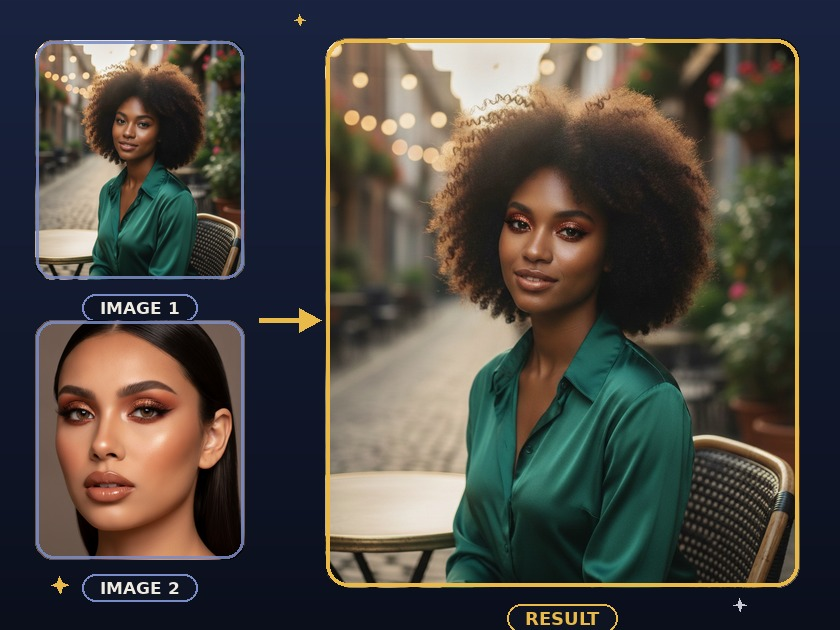
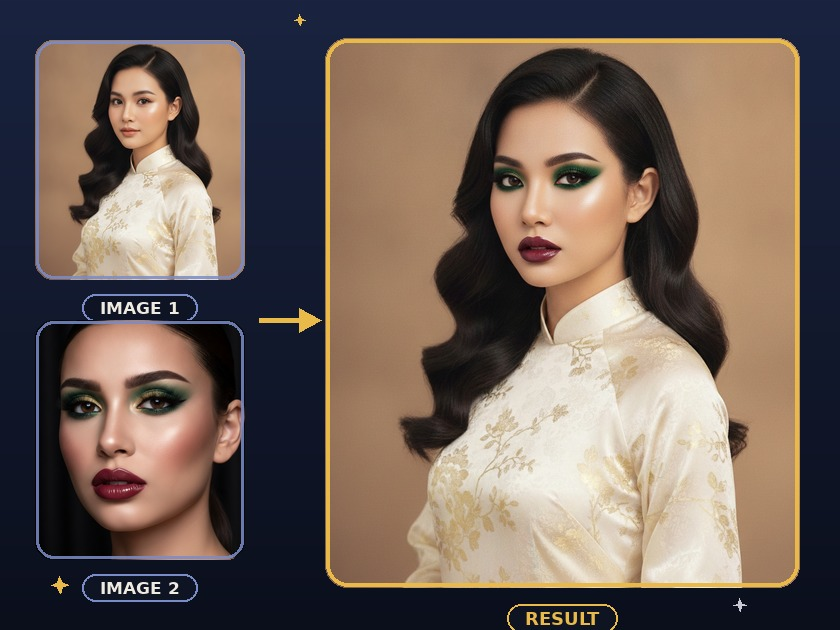
v4.20.16-17: refresh pr-roMkCopy with a more beautiful Vietnamese model (#124)
* v4.7.2: fix stale-version banner falsely firing on any version mismatch

The update-available toast compared version.json to APP_VER with !== instead
of a real newer-than check, so a stale/CDN-cached version.json serving an
OLDER value (observed live: a "3.8.0" banner while already on v4.7.1) wrongly
told users a new build had shipped. Added a semver-style verNewer() compare
so the toast only fires when the fetched version is genuinely newer.

Discovered from a user screenshot of the live Setup page while confirming
Gemini/RunningHub/OpenAI key verification all work end-to-end.

* v4.8.0: rebuild RunningHub Enterprise on the real Standard Model API

The RunningHub integration was built against a guessed API shape
(webappId + nodeInfoList, apiKey in the body) that turned out not to match
what Enterprise-Shared keys actually use. Working with a real key against
RunningHub's live docs and its published model-registry.public.json, the
actual API is the "Standard Model API" (openapi/v2): a fixed per-model
endpoint path, Bearer-token auth, and a JSON body — no app/workflow
node-ID mapping needed at all.

Rewrote the client: rhV2Upload/Submit/Query/PollUntilDone/GenerateOne
replace the old upload/run/status/outputs functions. Nano Banana 2
(rhart-image-n-g31-flash/image-to-image) ships as a built-in default
apiPath, confirmed end-to-end against the live docs and registry, so it
now works the instant a key is saved — no per-model setup. Other models
[…]

diff --git a/docs/app/sw.js b/docs/app/sw.js
@@ -1,6 +1,6 @@
 /* HNK Web Studio service worker — cache-first for library assets,
    network-first for everything else (so app updates arrive immediately). */
-var CACHE = "hnk-web-studio-v4-20-15";
+var CACHE = "hnk-web-studio-v4-20-17";
 var OFFLINE_URL = "./index.html";
 
 self.addEventListener("install", function (e) {

diff --git a/docs/app/index.html b/docs/app/index.html
@@ -3941,7 +3941,7 @@ if ("serviceWorker" in navigator) {
 }
 
 /* version check: tell cached users when a new build ships */
-var APP_VER="4.20.15";
+var APP_VER="4.20.17";
 (function(){
   var vv="v"+APP_VER;
   var nv=document.getElementById("navVer"); if(nv) nv.textContent=vv;
